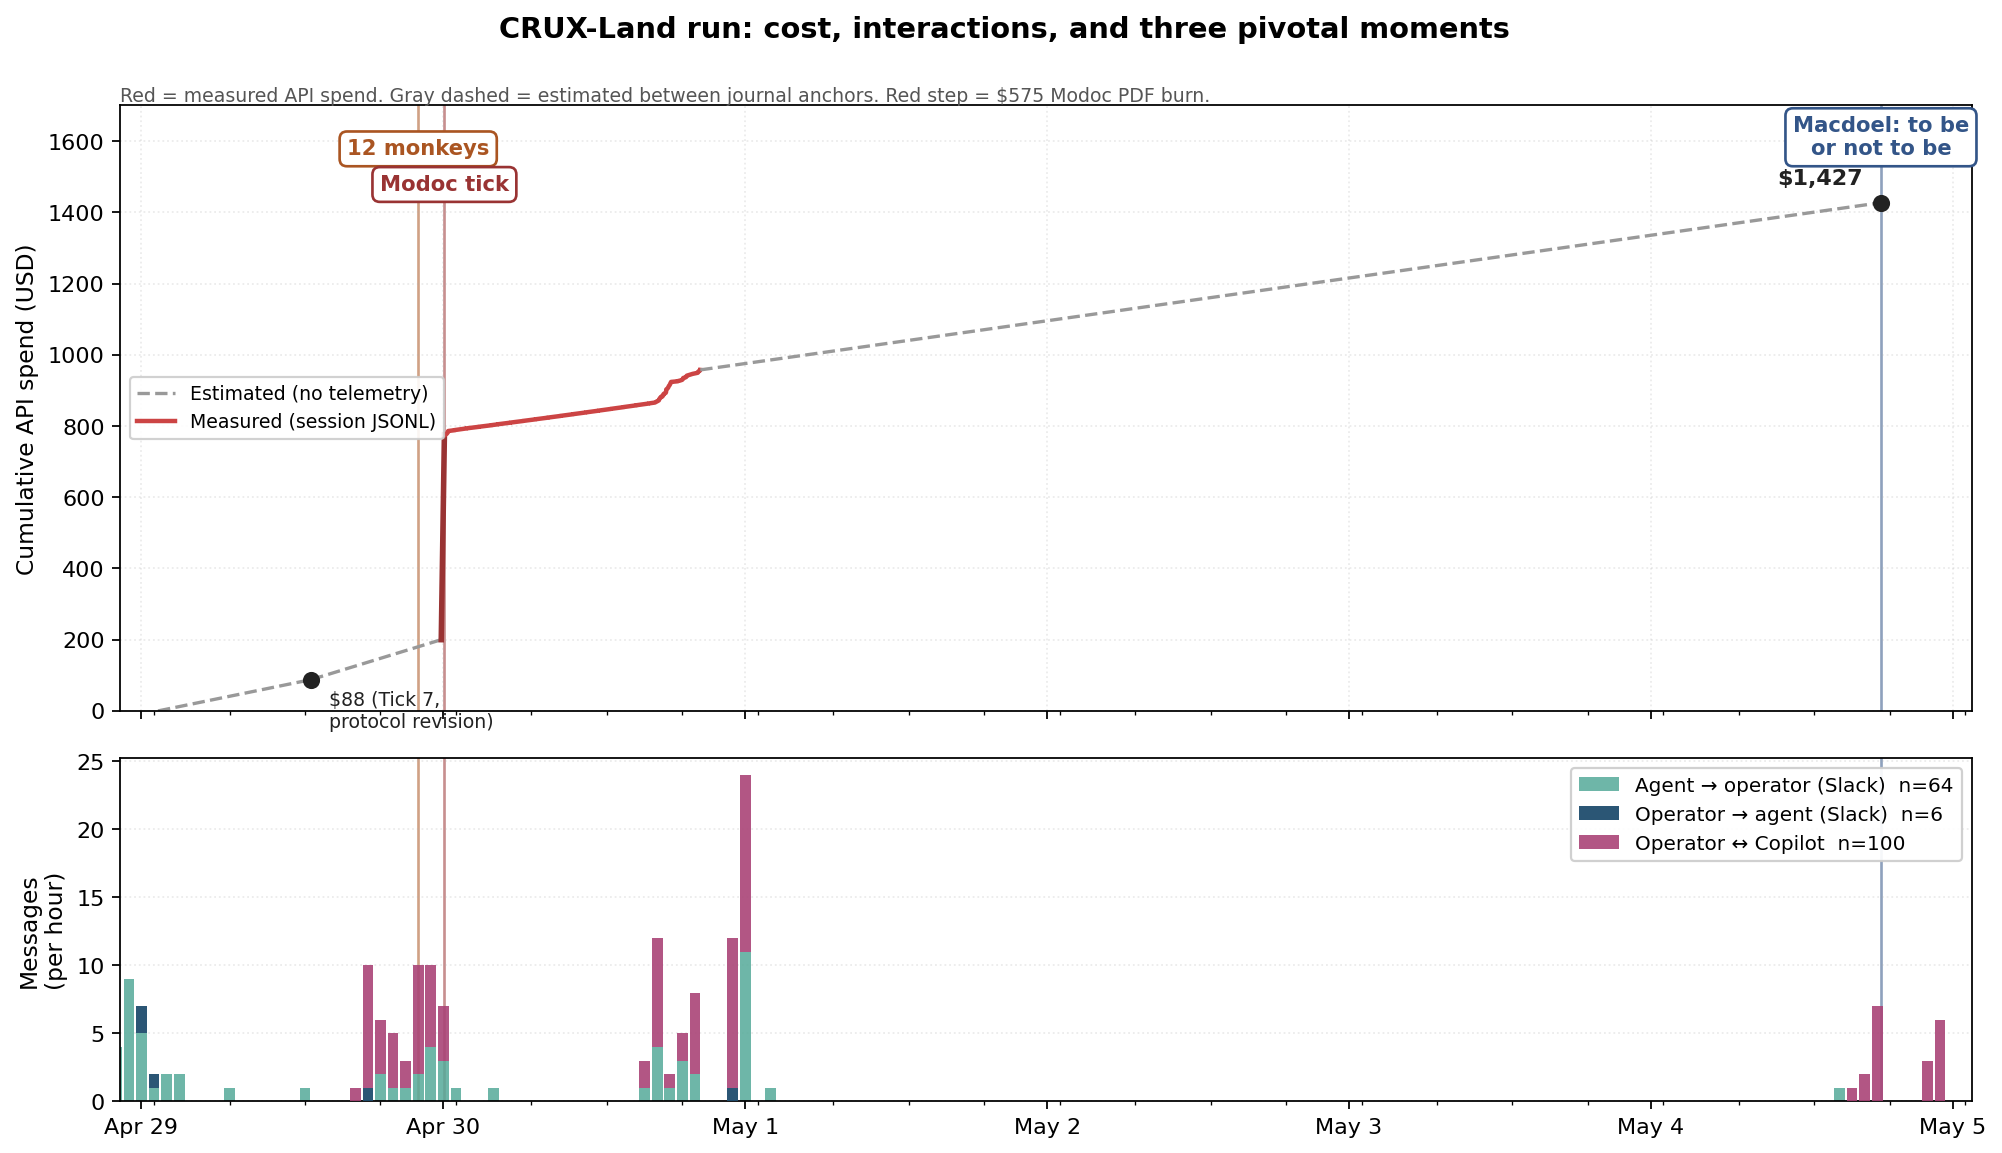
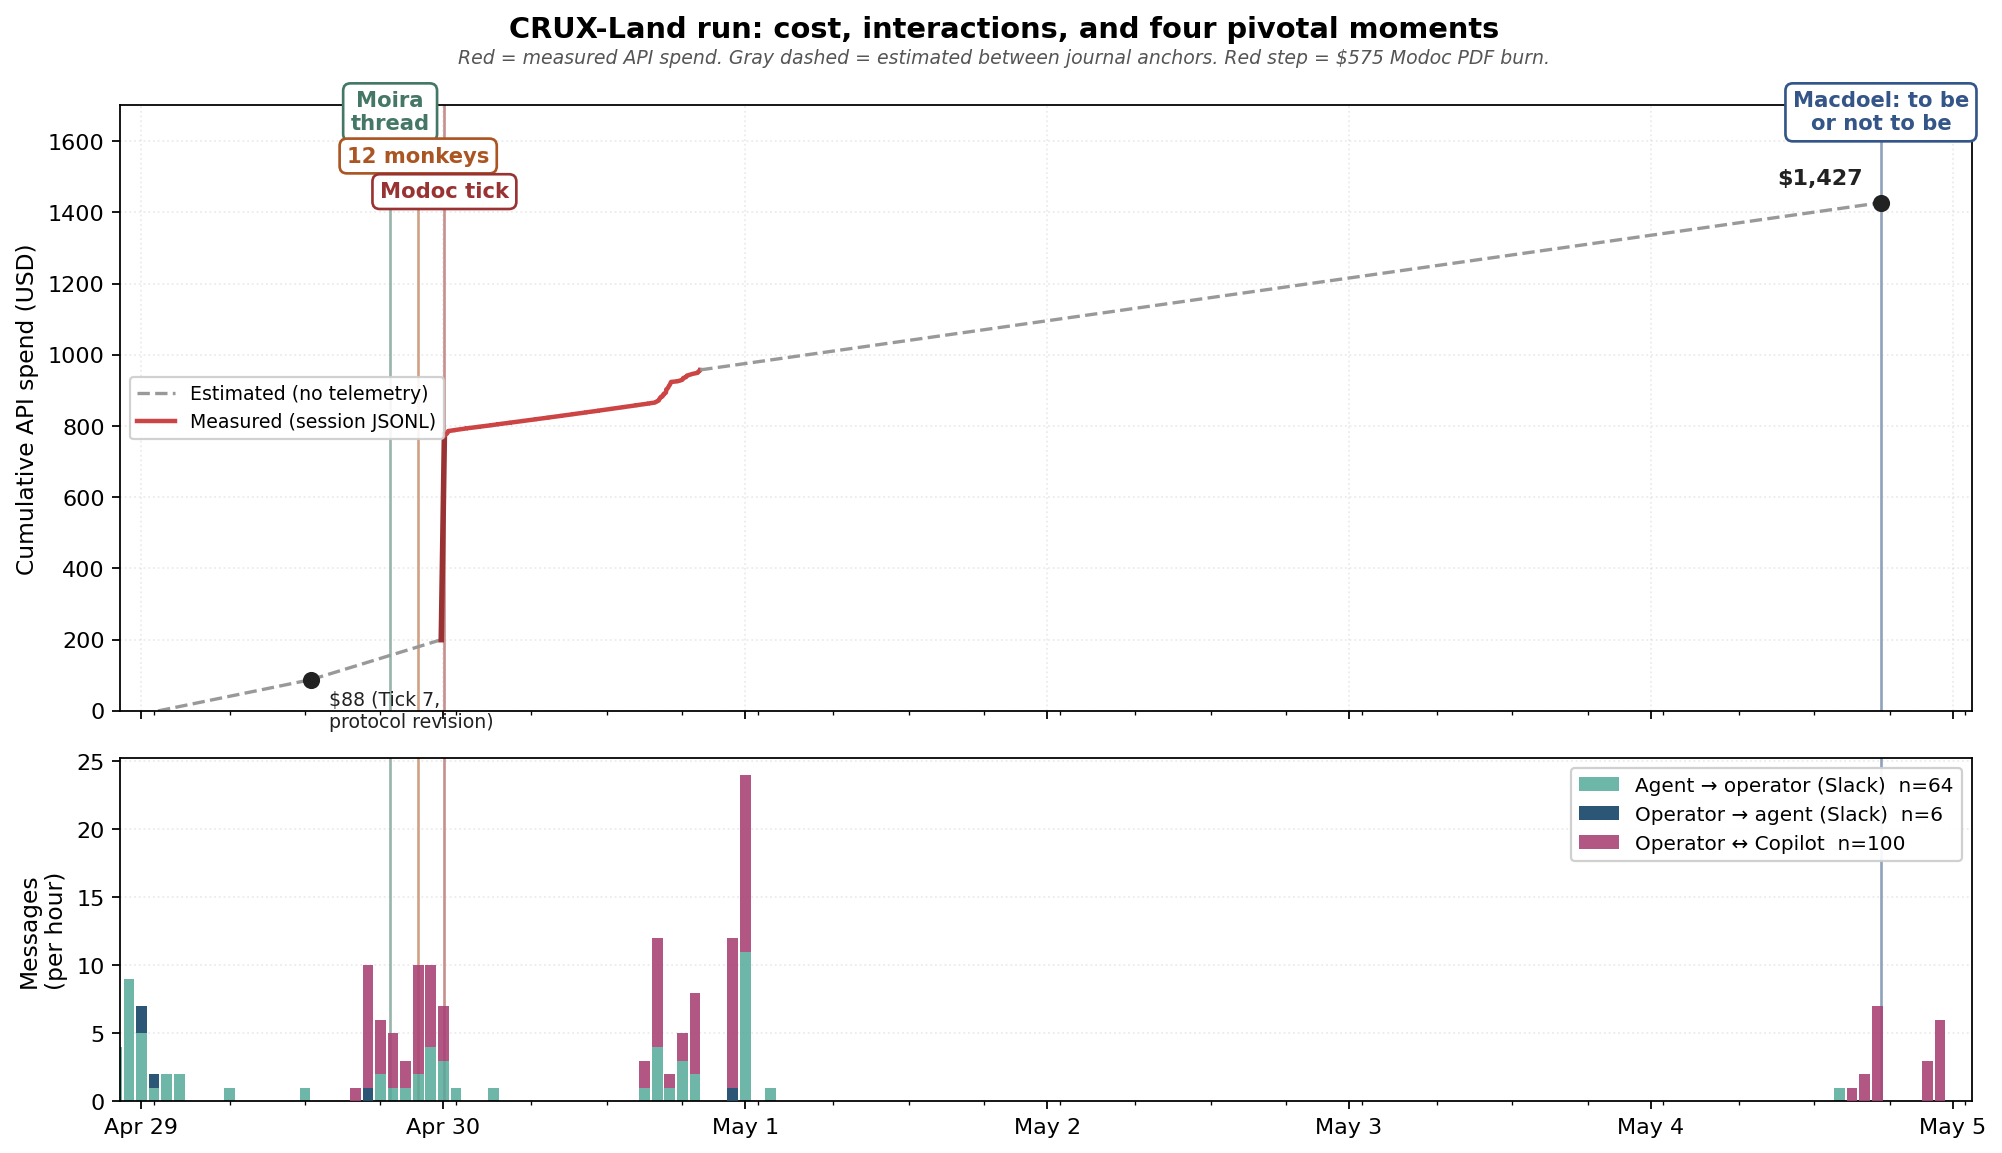
blog/crux-land: add Moira thread, restructure Part 2, add tone rule
- Reframe Part 2: "Why CRUX-Land" recap (3 paragraphs) replacing the
  5-H3 "What I learned about buying land" section
- Frame Designer + Copilot as two temporal phases of the same operator
  LLM session, not two actors
- New section: "The Moira thread" — pseudonymized account of the
  Costilla C005 channel, where an external party put in real work on
  the back of an autonomous-agent inquiry and didn't make it into the
  Slack report. Quotes her directly on the owner-financing offer.
- Add a fourth event marker (Moira thread, Apr 29 19:46 UTC) to both
  timeline charts; subtitle moved off the axis for clearance
- Embed two previously-unused images: github-harmless-button-refusal
  (safety policy at Macdoel pre-bid) + fallout-shelter-sign (CRUX-
  Vault-Zero framing at the close)
- Fix the "Walking them." fragment with a content-bearing sentence,
  and add the matching rule to TONE.md

Changed region(s): [[0.0619, 0.0, 0.7742, 0.1873], [0.8981, 0.0624, 0.991, 0.1561]]

diff --git a/src/content/blog/TONE.md b/src/content/blog/TONE.md
@@ -101,6 +101,14 @@ everything else in the post. State only what you actually have or know.
 - ✗ "I had a software background — I knew what code-signing certificates were and what the WACK validator complains about, even if I'd never personally shipped a Windows Store app."
 - ✓ "I had a software background to fall back on — I know how to build software."
 
+**No contentless transitional fragments.** Sentence fragments that gesture
+at what's coming next without naming anything ("Walking them.", "Onward.",
+"Now the details.") read clipped, not under-stated. Replace with a full
+sentence that previews the content, or cut the transition entirely and
+let the next heading carry the structure.
+- ✗ "...encoded as criteria the agent would check against each parcel. Walking them."
+- ✓ "...encoded as criteria the agent would check against each parcel. The five follow, in the order the protocol checks them."
+
 ## Patterns to use
 
 **Lead with numbers where possible.** "Net human inputs: three." "Final spend
